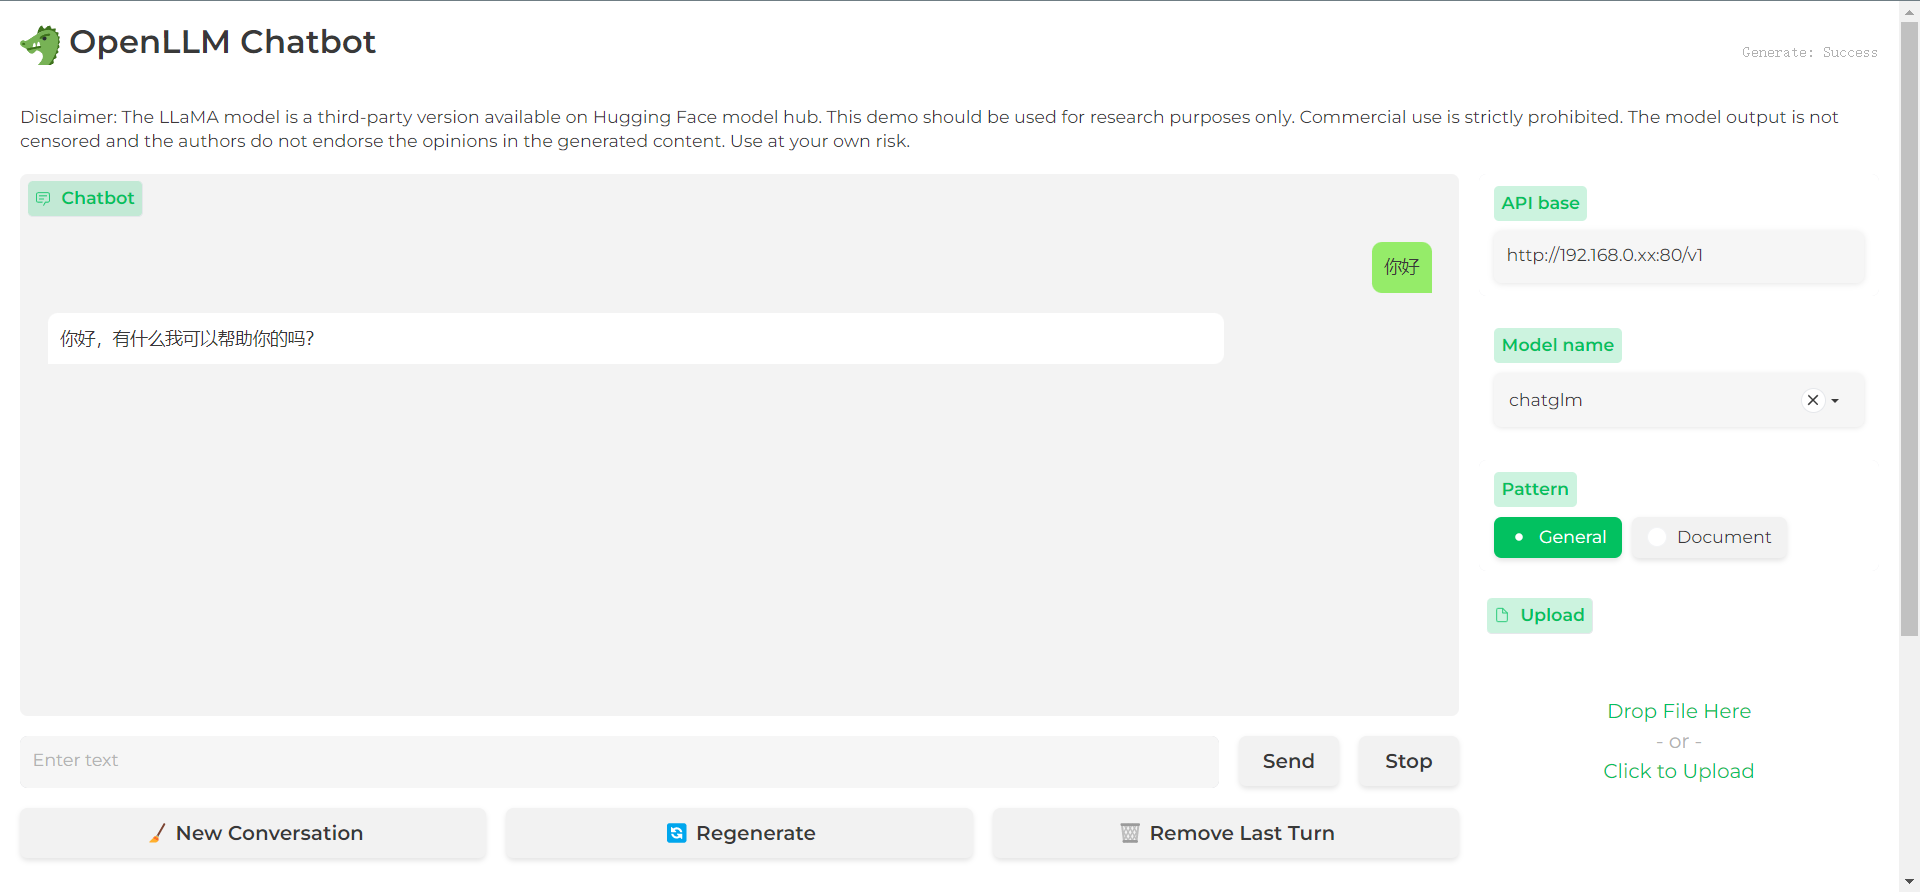
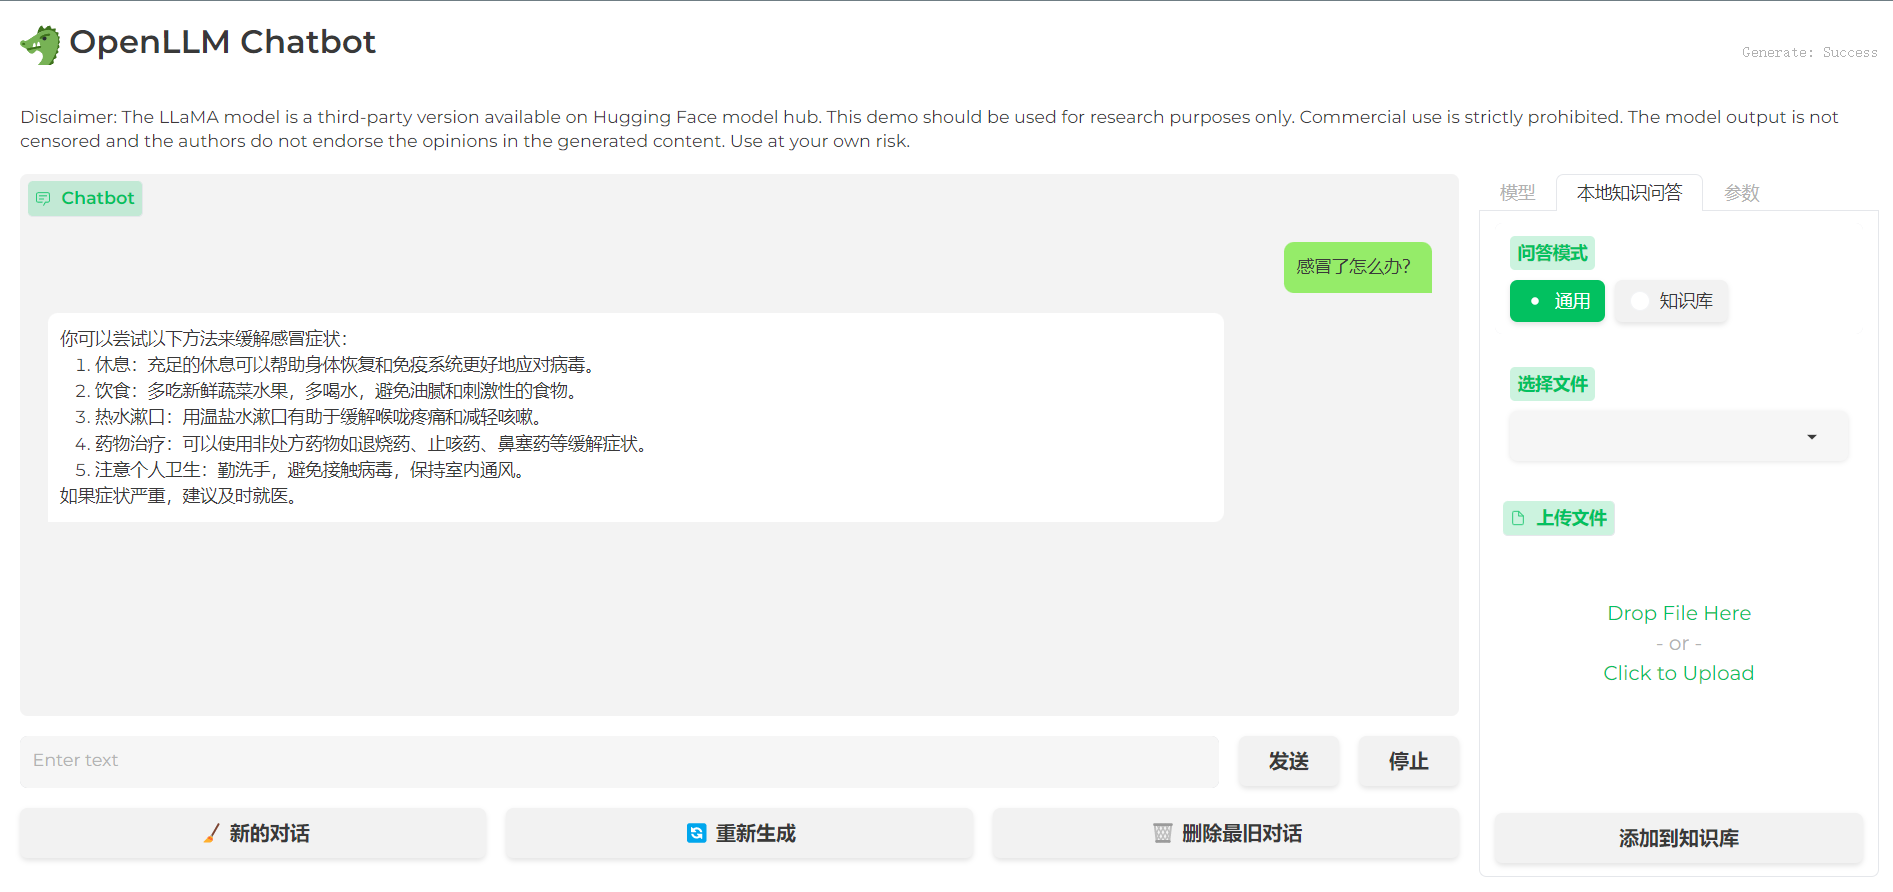
fix: document loader

diff --git a/applications/tools/parser.py b/applications/tools/parser.py
@@ -1,0 +1,161 @@
+import logging
+from types import SimpleNamespace
+
+import pdfplumber
+from langchain.docstore.document import Document
+
+
+def prepare_table_config(crop_page):
+    """Prepare table查找边界, 要求page为原始page
+
+    From https://github.com/jsvine/pdfplumber/issues/242
+    """
+    page = crop_page.root_page  # root/parent
+    cs = page.curves + page.edges
+
+    def curves_to_edges():
+        """See https://github.com/jsvine/pdfplumber/issues/127"""
+        edges = []
+        for c in cs:
+            edges += pdfplumber.utils.rect_to_edges(c)
+        return edges
+
+    edges = curves_to_edges()
+    return {
+        "vertical_strategy": "explicit",
+        "horizontal_strategy": "explicit",
+        "explicit_vertical_lines": edges,
+        "explicit_horizontal_lines": edges,
+        "intersection_y_tolerance": 10,
+    }
+
+
+def get_text_outside_table(crop_page):
+    ts = prepare_table_config(crop_page)
+    if len(ts["explicit_vertical_lines"]) == 0 or len(ts["explicit_horizontal_lines"]) == 0:
+        return crop_page
+
+    ### Get the bounding boxes of the tables on the page.
+    bboxes = [table.bbox for table in crop_page.root_page.find_tables(table_settings=ts)]
+
+    def not_within_bboxes(obj):
+        """Check if the object is in any of the table's bbox."""
+
+        def obj_in_bbox(_bbox):
+            """See https://github.com/jsvine/pdfplumber/blob/stable/pdfplumber/table.py#L404"""
+            v_mid = (obj["top"] + obj["bottom"]) / 2
+            h_mid = (obj["x0"] + obj["x1"]) / 2
+            x0, top, x1, bottom = _bbox
+            return (h_mid >= x0) and (h_mid < x1) and (v_mid >= top) and (v_mid < bottom)
+
+        return not any(obj_in_bbox(__bbox) for __bbox in bboxes)
+
+    return crop_page.filter(not_within_bboxes)
+
+
+# 请使用 LaTeX 表达公式，行内公式以 $ 包裹，行间公式以 $$ 包裹
+
+extract_words = lambda page: page.extract_words(keep_blank_chars=True, y_tolerance=0, x_tolerance=1,
+                                                extra_attrs=["fontname", "size", "object_type"])
+
+
+def get_title_with_cropped_page(first_page):
+    title = []  # 处理标题
+    x0, top, x1, bottom = first_page.bbox  # 获取页面边框
+
+    for word in extract_words(first_page):
+        word = SimpleNamespace(**word)
+
+        if word.size >= 14:
+            title.append(word.text)
+            title_bottom = word.bottom
+        elif word.text == "Abstract":  # 获取页面abstract
+            top = word.top
+
+    user_info = [i["text"] for i in extract_words(first_page.within_bbox((x0, title_bottom, x1, top)))]
+    # 裁剪掉上半部分, within_bbox: full_included; crop: partial_included
+    return title, user_info, first_page.within_bbox((x0, top, x1, bottom))
+
+
+def get_column_cropped_pages(pages, two_column=True):
+    new_pages = []
+    for page in pages:
+        if two_column:
+            left = page.within_bbox((0, 0, page.width / 2, page.height), relative=True)
+            right = page.within_bbox((page.width / 2, 0, page.width, page.height), relative=True)
+            new_pages.append(left)
+            new_pages.append(right)
+        else:
+            new_pages.append(page)
+
+    return new_pages
+
+
+def parse_pdf(filename, two_column=True):
+    level = logging.getLogger().level
+    if level == logging.getLevelName("DEBUG"):
+        logging.getLogger().setLevel("INFO")
+
+    with pdfplumber.open(filename) as pdf:
+        title, user_info, first_page = get_title_with_cropped_page(pdf.pages[0])
+        new_pages = get_column_cropped_pages([first_page] + pdf.pages[1:], two_column)
+
+        chapters = []
+        # tuple (chapter_name, [pageid] (start,stop), chapter_text)
+        create_chapter = lambda page_start, name_top, name_bottom: SimpleNamespace(
+            name=[],
+            name_top=name_top,
+            name_bottom=name_bottom,
+            record_chapter_name=True,
+
+            page_start=page_start,
+            page_stop=None,
+
+            text=[],
+        )
+        cur_chapter = None
+
+        # 按页遍历PDF文档
+        for idx, page in enumerate(new_pages):
+            page = get_text_outside_table(page)
+
+            # 按行遍历页面文本
+            for word in extract_words(page):
+                word = SimpleNamespace(**word)
+
+                # 检查行文本是否以12号字体打印，如果是，则将其作为新章节开始
+                if word.size >= 11:  # 出现chapter name
+                    if cur_chapter is None:
+                        cur_chapter = create_chapter(page.page_number, word.top, word.bottom)
+                    elif not cur_chapter.record_chapter_name or (
+                            cur_chapter.name_bottom != cur_chapter.name_bottom and cur_chapter.name_top != cur_chapter.name_top):
+                        # 不再继续写chapter name
+                        cur_chapter.page_stop = page.page_number  # stop id
+                        chapters.append(cur_chapter)
+                        # 重置当前chapter信息
+                        cur_chapter = create_chapter(page.page_number, word.top, word.bottom)
+
+                    # print(word.size, word.top, word.bottom, word.text)
+                    cur_chapter.name.append(word.text)
+                else:
+                    cur_chapter.record_chapter_name = False  # chapter name 结束
+                    cur_chapter.text.append(word.text)
+        else:
+            # 处理最后一个章节
+            cur_chapter.page_stop = page.page_number  # stop id
+            chapters.append(cur_chapter)
+
+        for i in chapters:
+            logging.info(f"section: {i.name} pages:{i.page_start, i.page_stop} word-count:{len(i.text)}")
+            logging.debug(" ".join(i.text))
+
+    title = " ".join(title)
+    user_info = " ".join(user_info)
+    text = f"Article Title: {title}, Information:{user_info}\n"
+    for idx, chapter in enumerate(chapters):
+        chapter.name = " ".join(chapter.name)
+        text += f"The {idx}th Chapter {chapter.name}: " + " ".join(chapter.text) + "\n"
+
+    logging.getLogger().setLevel(level)
+
+    return Document(page_content=text, metadata={"title": title})

diff --git a/applications/tools/doc_qa.py b/applications/tools/doc_qa.py
@@ -5,8 +5,13 @@ from typing import Optional
 from langchain.document_loaders import UnstructuredFileLoader
 from langchain.embeddings import OpenAIEmbeddings
 from langchain.embeddings.openai import embed_with_retry
+from langchain.schema import Document
 from langchain.text_splitter import RecursiveCharacterTextSplitter
 from langchain.vectorstores import FAISS
+from loguru import logger
+from tqdm import tqdm
+
+from .parser import parse_pdf
 
 PROMPT_TEMPLATE = """已知信息：
 {context} 
@@ -41,6 +46,89 @@ def load_file(filepath, chunk_size=500, chunk_overlap=0):
     return docs
 
 
+def _get_documents(filepath, chunk_size=500, chunk_overlap=0, two_column=False):
+    text_splitter = RecursiveCharacterTextSplitter(
+        chunk_size=chunk_size,
+        chunk_overlap=chunk_overlap,
+    )
+    file_type = os.path.splitext(filepath)[1]
+
+    logger.info(f"Loading file: {filepath}")
+    texts = Document(page_content="", metadata={"source": filepath})
+    try:
+        if file_type == ".pdf":
+            logger.debug("Loading PDF...")
+            try:
+                pdftext = parse_pdf(filepath, two_column).text
+            except:
+                from PyPDF2 import PdfReader
+
+                pdftext = ""
+                with open(filepath, "rb") as pdfFileObj:
+                    pdfReader = PdfReader(pdfFileObj)
+                    for page in tqdm(pdfReader.pages):
+                        pdftext += page.extract_text()
+
+            texts = Document(page_content=pdftext, metadata={"source": filepath})
+
+        elif file_type == ".docx":
+            from langchain.document_loaders import UnstructuredWordDocumentLoader
+
+            logger.debug("Loading Word...")
+            loader = UnstructuredWordDocumentLoader(filepath)
+            texts = loader.load()
+        elif file_type == ".pptx":
+            from langchain.document_loaders import UnstructuredPowerPointLoader
+
+            logger.debug("Loading PowerPoint...")
+            loader = UnstructuredPowerPointLoader(filepath)
+            texts = loader.load()
+        elif file_type == ".epub":
+            from langchain.document_loaders import UnstructuredEPubLoader
+
+            logger.debug("Loading EPUB...")
+            loader = UnstructuredEPubLoader(filepath)
+            texts = loader.load()
+        else:
+            from langchain.document_loaders import TextLoader
+            logger.debug("Loading text file...")
+
+            loader = TextLoader(filepath, "utf8")
+            texts = loader.load()
+    except Exception as e:
+        import traceback
+        logger.error(f"Error loading file: {filepath}")
+        traceback.print_exc()
+
+    return text_splitter.split_documents([texts])
+
+
+def get_documents(filepath, chunk_size=500, chunk_overlap=0, two_column=False):
+    documents = []
+    logger.debug("Loading documents...")
+    if os.path.isfile(filepath):
+        documents.extend(
+            _get_documents(
+                filepath,
+                chunk_size=chunk_size,
+                chunk_overlap=chunk_overlap,
+                two_column=two_column
+            )
+        )
+    else:
+        for file in filepath:
+            documents.extend(
+                _get_documents(
+                    file,
+                    chunk_size=chunk_size,
+                    chunk_overlap=chunk_overlap,
+                    two_column=two_column
+                )
+            )
+    logger.debug("Documents loaded.")
+    return documents
+
+
 def generate_prompt(related_docs, query: str, prompt_template=PROMPT_TEMPLATE) -> str:
     context = "\n".join([doc[0].page_content for doc in related_docs])
     return prompt_template.replace("{question}", query).replace("{context}", context)
@@ -53,11 +141,10 @@ class DocQAPromptAdapter:
         self.chunk_overlap = chunk_overlap
 
         self.vector_store = None
-        self.vs_path = None
 
     def create_vector_store(self, file_path, vs_path, embeddings=None):
-        docs = load_file(file_path, chunk_size=self.chunk_size, chunk_overlap=self.chunk_overlap)
-        self.vector_store = FAISS.from_documents(docs, self.embeddings if not embeddings else embeddings)
+        documents = get_documents(file_path, chunk_size=self.chunk_size, chunk_overlap=self.chunk_overlap)
+        self.vector_store = FAISS.from_documents(documents, self.embeddings if not embeddings else embeddings)
         self.vector_store.save_local(vs_path)
 
     def reset_vector_store(self, vs_path, embeddings=None):

diff --git a/applications/README.md b/applications/README.md
@@ -15,3 +15,5 @@ python chat.py --model_name chatglm --api_base http://192.168.0.xx:80/v1
 ```shell
 python web_demo.py
 ```
+
+支持通用问答和知识库问答两种模式
